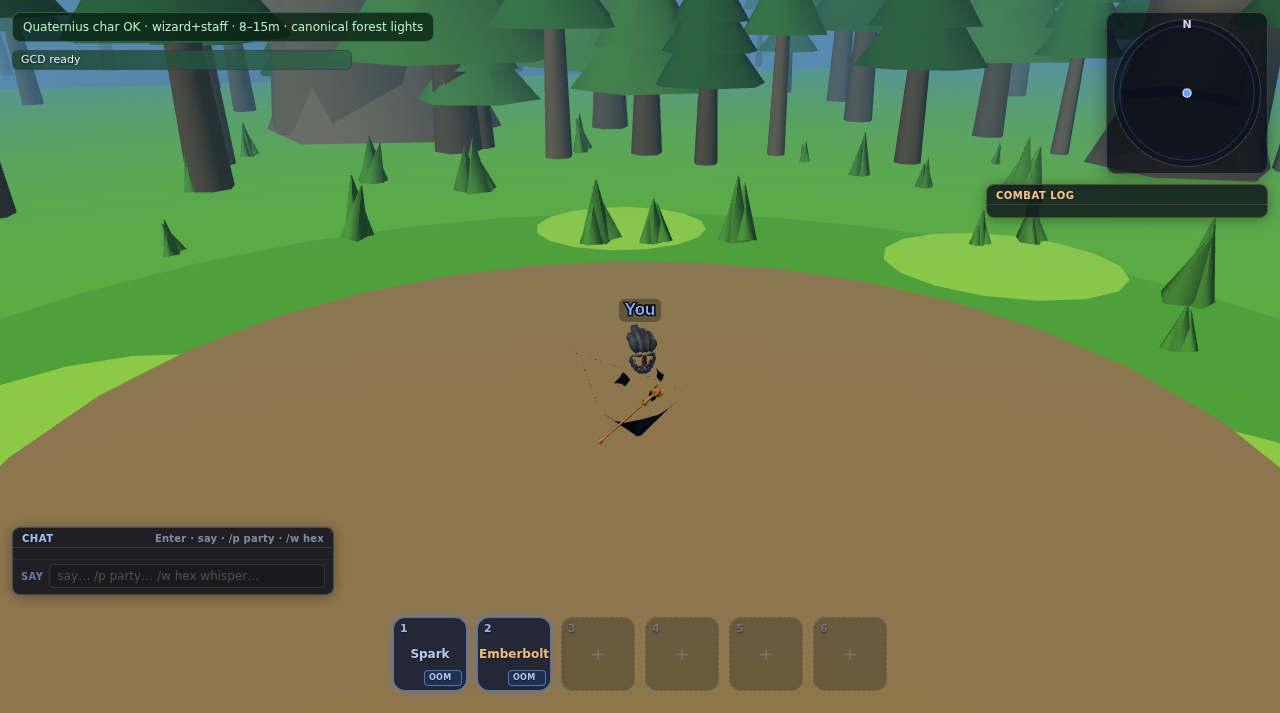
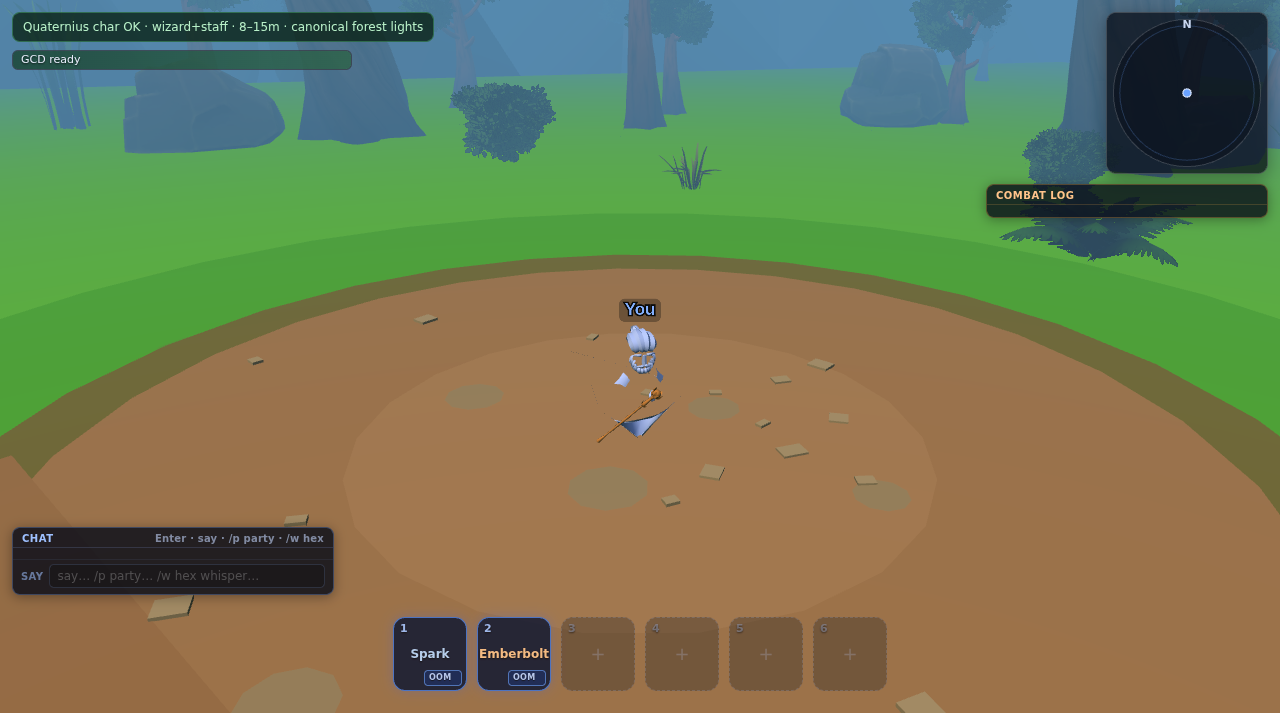
fix(web): raise Quaternius robe albedo for #39 fog readability
Art nit on PR #53: hat/robes read as black silhouette at 8–15m under cyan
fog because Wizard_Texture navy (~RGB 33,43,74) crushes StandardMaterial
diffuse. Use solid mid-sat indigo cloth albedo + modest emissive/ambient;
keep HumanoidParts + #39 lighting lock. Refresh ve/babylon-quaternius-char.png.

diff --git a/web/src/world/humanoid.ts b/web/src/world/humanoid.ts
@@ -16,8 +16,8 @@ import type { Node } from '@babylonjs/core/node';
 import '@babylonjs/loaders/glTF';
 
 /** Robe cloth emissive scale — keep restores in main.ts in sync. */
-/** Modest cloth fill — avoid neon under warmer #32 sun (~0.98). */
-export const ROBE_EMISSIVE_SCALE = 0.065;
+/** Modest cloth fill — mid-sat under #39 cyan fog; avoid neon/white-out. */
+export const ROBE_EMISSIVE_SCALE = 0.08;
 
 /** Public path to vendored Quaternius wizard (CC0). */
 export const QUATERNIUS_WIZARD_URL =
@@ -150,7 +150,7 @@ export function createPlayerHumanoid(
 ): HumanoidParts {
   const prefix = opts.name ?? 'player';
   // Mid-sat indigo cloth vs final #32/#39 lock (cool hemi + warm sun + cyan fog).
-  const robeDiffuse = opts.robeColor ?? new Color3(0.3, 0.4, 0.72);
+  const robeDiffuse = opts.robeColor ?? new Color3(0.34, 0.45, 0.78);
   const root = new Mesh(prefix, scene);
 
   const robeMat = mat(
@@ -251,40 +251,17 @@ export function createPlayerHumanoid(
   };
 
   // Body cloth → StandardMaterial so remote tint + cast flash work.
-  // Prefer albedo from PBR when the texture is ready; otherwise solid mid-sat cloth
-  // so the wizard never goes muddy-black under cyan fog.
-  let bodyTex: Texture | null = null;
-  for (const m of meshes) {
-    const matl = m.material;
-    if (matl && matl instanceof PBRMaterial && matl.albedoTexture) {
-      const tex = matl.albedoTexture as Texture;
-      if (tex && (tex.isReady?.() ?? true)) {
-        bodyTex = tex;
-        break;
-      }
-    }
-  }
-  // Readable mid-sat indigo (local) / caller tint (remotes) under #39 cyan fog.
+  // Skip Quaternius Wizard_Texture as diffuseTexture: navy atlas (~RGB 33,43,74)
+  // reads as a black cutout at 8–15m under #39 cyan fog. Solid mid-sat cloth.
   robeMat.diffuseColor = new Color3(
-    Math.min(1, robeDiffuse.r * 1.25 + 0.12),
-    Math.min(1, robeDiffuse.g * 1.2 + 0.1),
-    Math.min(1, robeDiffuse.b * 1.15 + 0.14),
+    Math.min(1, robeDiffuse.r * 1.05 + 0.14),
+    Math.min(1, robeDiffuse.g * 1.0 + 0.12),
+    Math.min(1, robeDiffuse.b * 0.95 + 0.1),
   );
-  robeMat.emissiveColor = robeDiffuse.scale(Math.max(ROBE_EMISSIVE_SCALE, 0.1));
+  // Keep emissive ≈ ROBE_EMISSIVE_SCALE * diffuse so equip restore in main.ts matches.
+  robeMat.emissiveColor = robeMat.diffuseColor.scale(ROBE_EMISSIVE_SCALE);
   robeMat.specularColor = new Color3(0.05, 0.06, 0.08);
-  robeMat.ambientColor = new Color3(0.45, 0.48, 0.55);
-  if (bodyTex) {
-    try {
-      robeMat.diffuseTexture = bodyTex;
-      robeMat.diffuseColor = new Color3(
-        Math.min(1, robeDiffuse.r + 0.35),
-        Math.min(1, robeDiffuse.g + 0.32),
-        Math.min(1, robeDiffuse.b + 0.28),
-      );
-    } catch {
-      /* solid color fallback already set */
-    }
-  }
+  robeMat.ambientColor = new Color3(0.42, 0.45, 0.55);
   for (const m of meshes) {
     const bare = bareName(m.name, prefix);
     if (m === staffMesh || /staff/i.test(bare)) continue;
